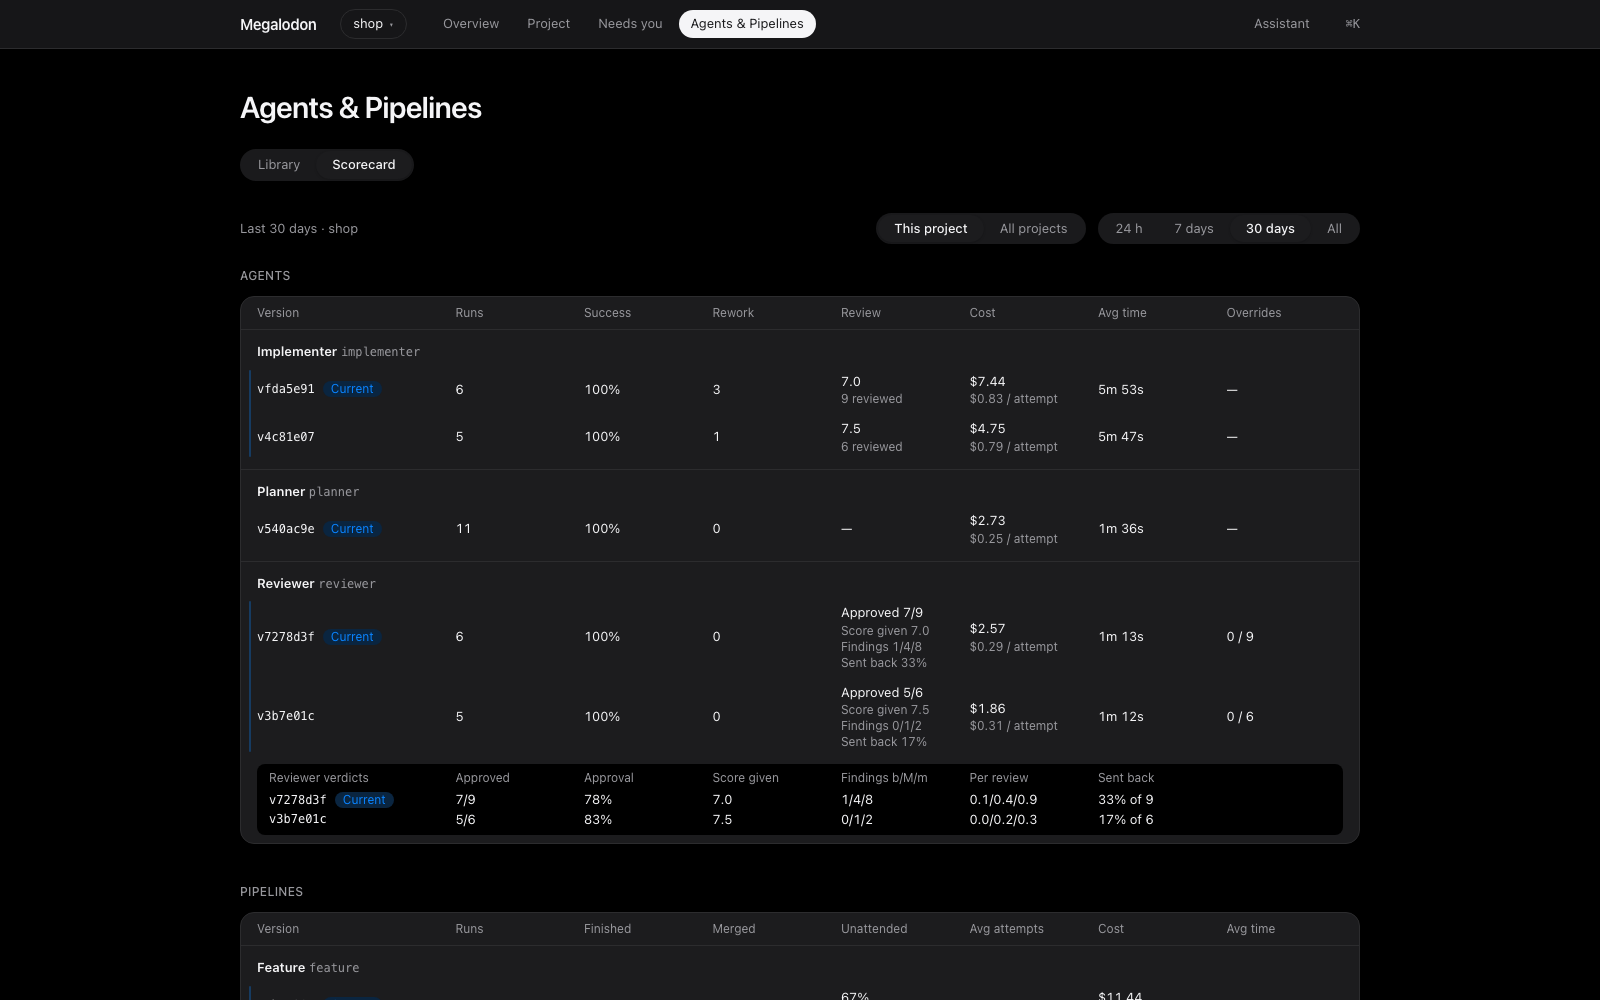
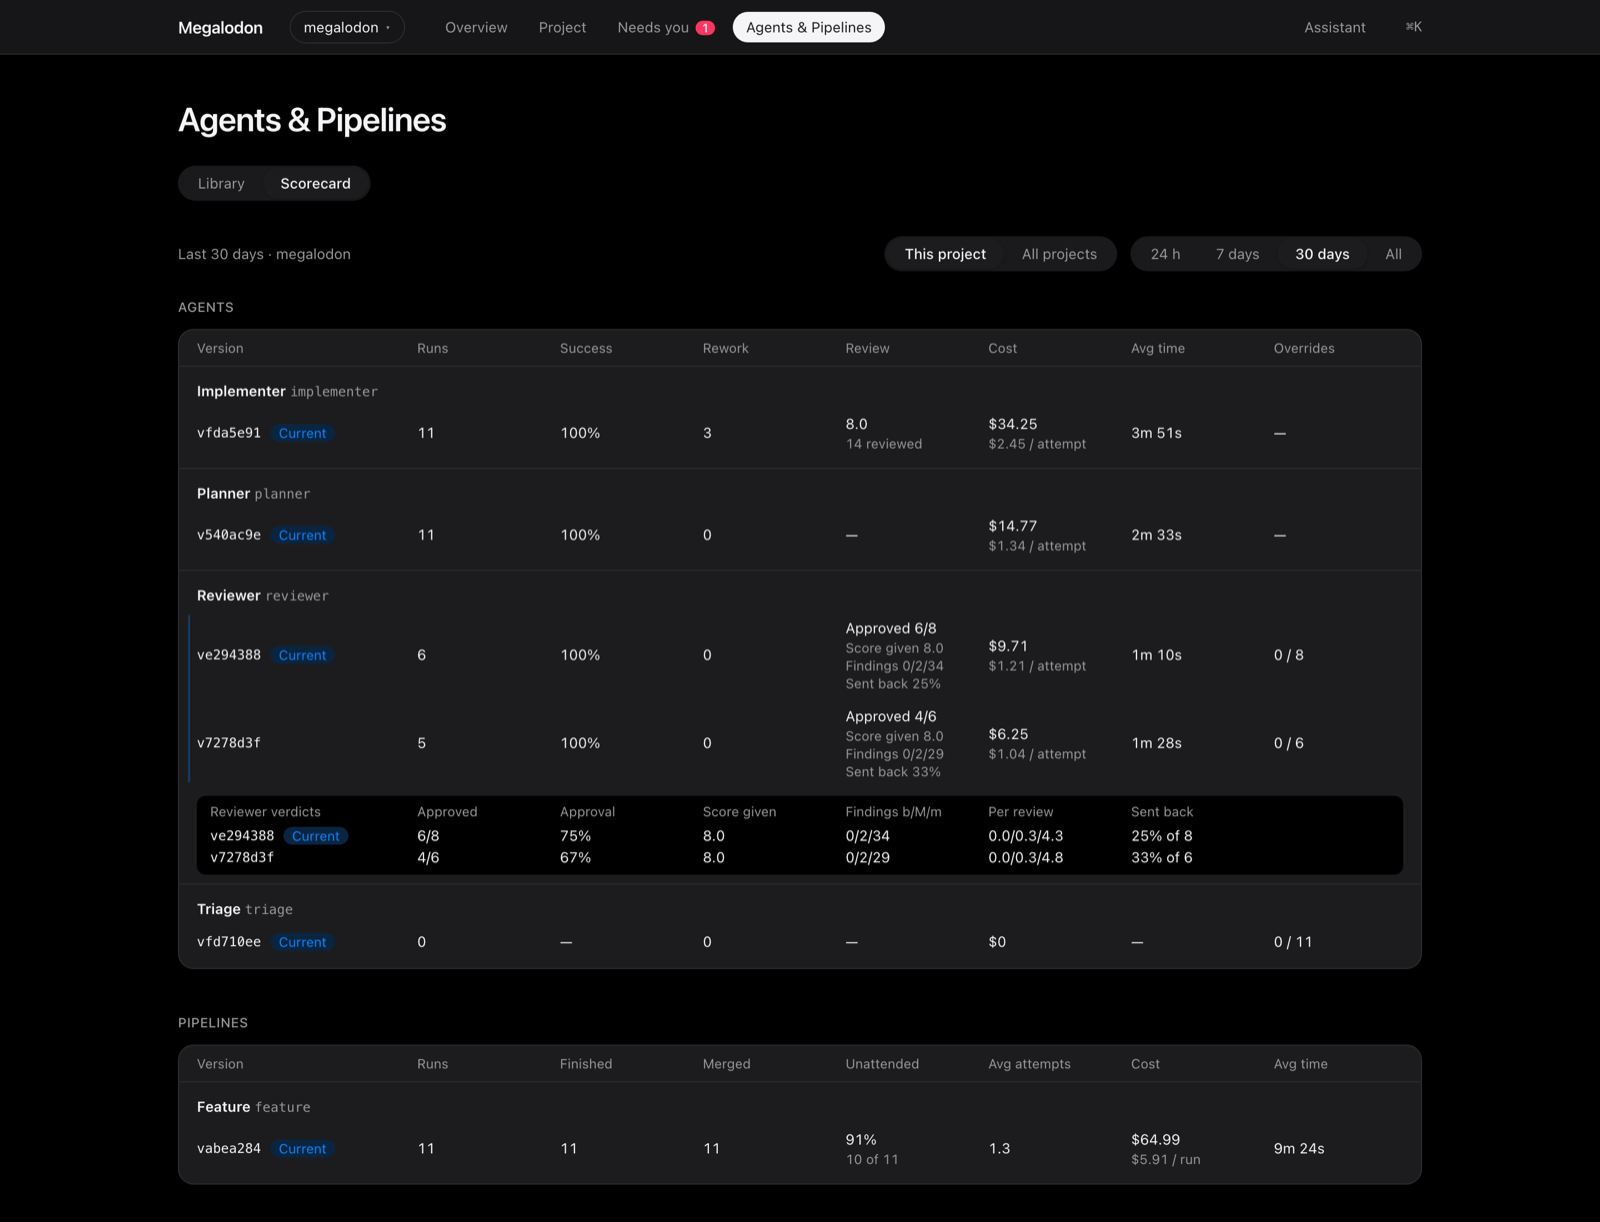
docs: README numbers as of v0.2.1 and a scorecard screenshot with real data

diff --git a/README.md b/README.md
@@ -83,13 +83,15 @@ The MVP was finished on 2026-10-26. Since then, changes to Megalodon have gone t
 the operator writes a task, and the stable instance triages it, plans, implements, runs the checks,
 reviews the change in a worktree and merges it into this repository.
 
-As of 2026-11-02:
+As of 2026-11-24 (release v0.2.1):
 
-- 4 tasks went the whole way through the pipeline, and all 4 were merged by the merge policy, with
-  no manual merge;
-- 10 of the 22 commits in this repository were written by Megalodon's agents and merge queue
-  (4 changes, 2 branch updates and 4 merges): look for `#N …` and `Merge #N …` in `git log`;
-- 24 agent decisions are on record, at a total agent cost of $11.16.
+- 11 tasks went the whole way through the pipeline; 10 were merged by the merge policy and 1 after
+  the operator overrode a failed review gate, with the reason on record;
+- 29 of the 43 commits in this repository were written by Megalodon's agents and merge queue:
+  look for `#N …`, `Merge #N …` and `Merge main into megalodon/…` in `git log`;
+- the agent and pipeline scorecard (#13, #14, #15, #19), project commit conventions (#16), the
+  test-first pipeline (#17) and the duplicate-ADR guard (#18) were all built this way, in one night;
+- 76 agent decisions are on record for this project, at a total agent cost of $71.86.
 
 The stable instance runs from a tagged release, so a merge into `main` never changes the
 instance that made it; it is upgraded with a new tag (ADR-0013).
@@ -100,7 +102,7 @@ instance that made it; it is upgraded with a new tag (ADR-0013).
 - [`docs/CONCEPTS.md`](docs/CONCEPTS.md): vocabulary, statuses, dependencies and queue rules.
 - [`docs/ARCHITECTURE.md`](docs/ARCHITECTURE.md): how it is built.
 - [`docs/MVP.md`](docs/MVP.md): the build plan, step by step.
-- [`docs/adr/`](docs/adr/): 35 architecture decision records.
+- [`docs/adr/`](docs/adr/): 36 architecture decision records.
 
 ## Running
 
@@ -127,8 +129,9 @@ Environment: `MEGALODON_PORT`, `MEGALODON_WEB_PORT` (dev UI), `MEGALODON_DATA_DI
 ## Status
 
 A working MVP, used daily by its author: single user, local only (binds to `127.0.0.1`, no
-authentication), Claude as the only agent runtime. Next on the backlog: evaluation of agents and
-pipelines, GitHub and AWS integrations, search, and a per-project knowledge base.
+authentication), Claude as the only agent runtime. Next on the backlog: golden task sets to compare
+agent versions before adopting them, GitHub and AWS integrations, search, and a per-project
+knowledge base.
 
 ## License
 
